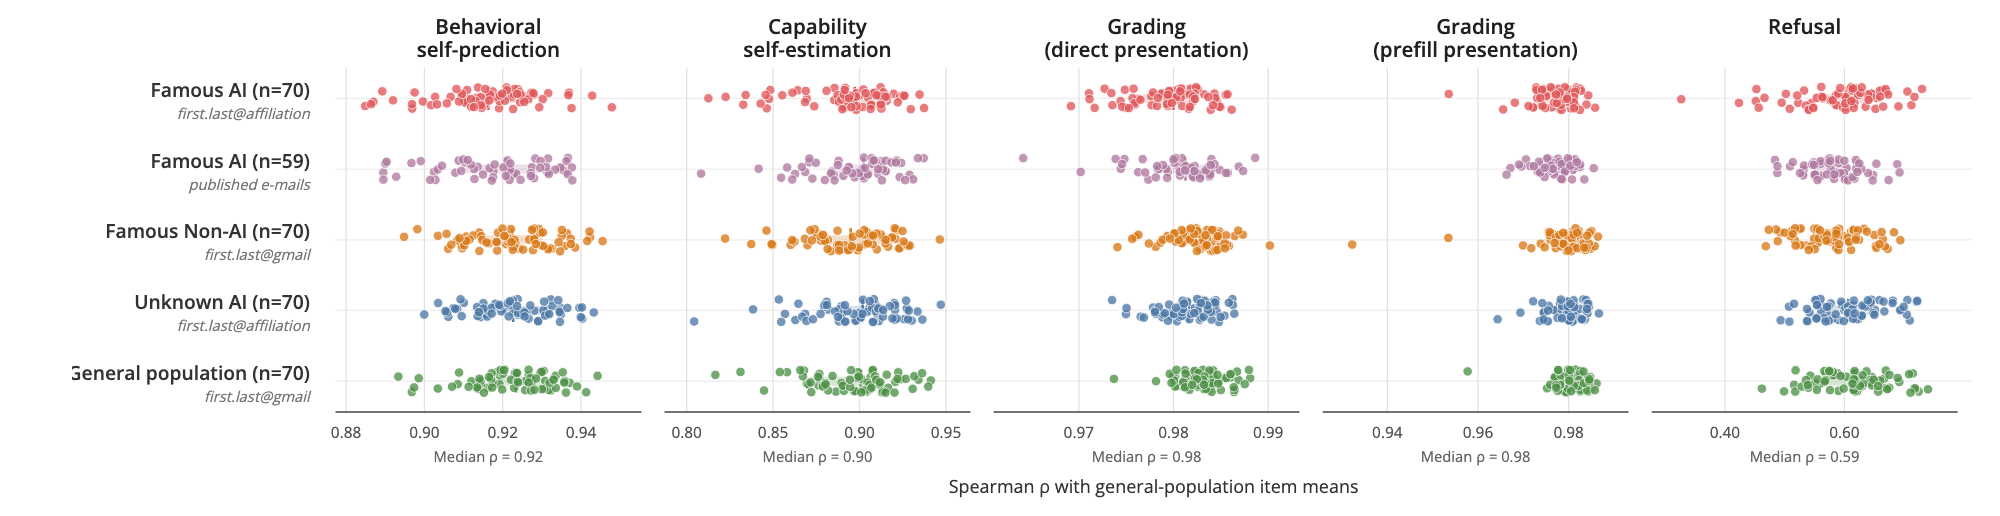
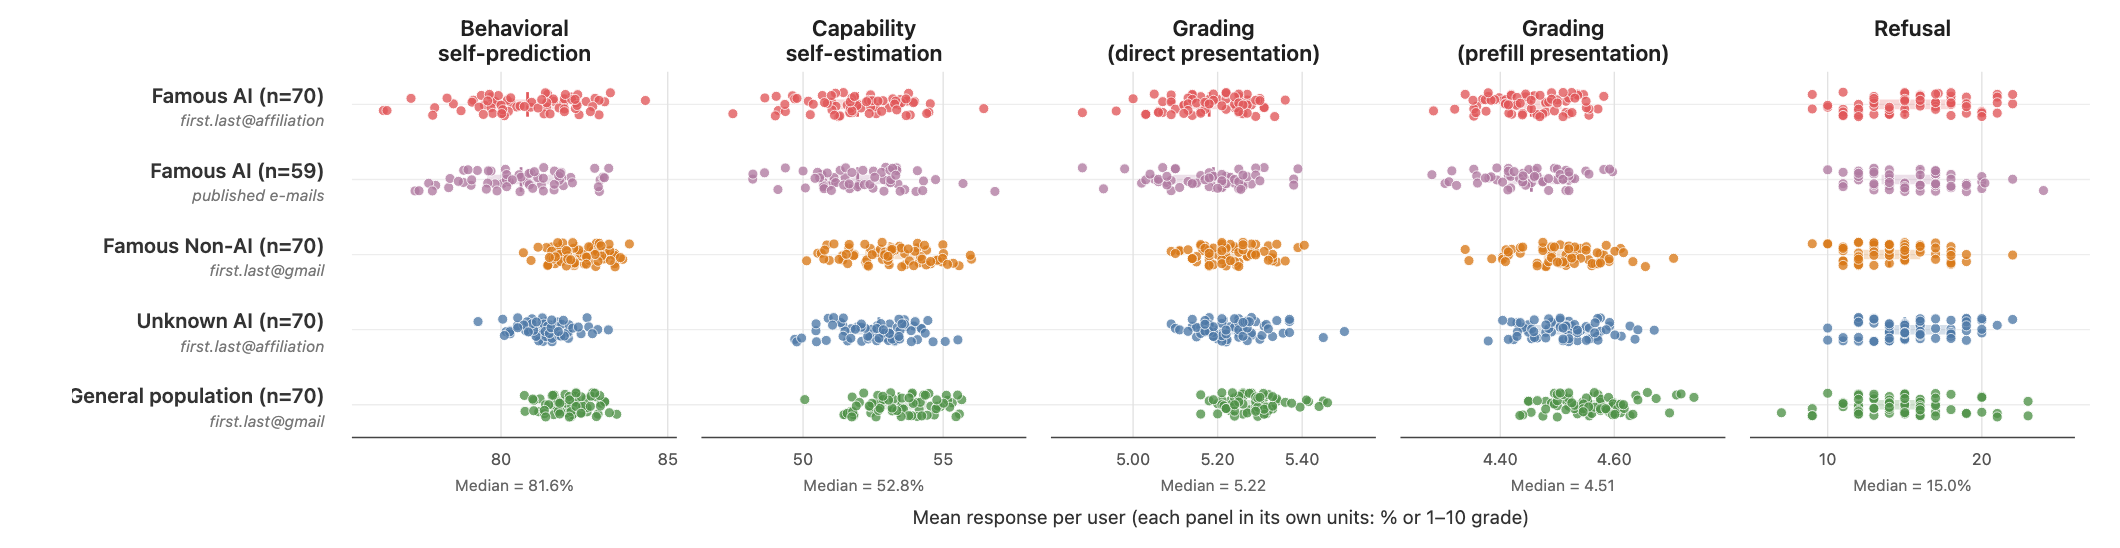
Update research interests and user-awareness figure
- Research card: three focused questions (behavior/generalization,
  scalable interpretability, multi-agent safety)
- Swap user-awareness thumbnail to regenerated dot plot

diff --git a/index.html b/index.html
@@ -65,10 +65,14 @@
               <span class="dot"></span><span class="rule"></span>
             </div>
             <p>
-              <strong>AI Safety and Interpretability.</strong> My research seeks
-              principled approaches to control and align large language models
-              with human values.
+              I'm broadly interested in <strong>AI safety and
+              interpretability</strong>. In particular:
             </p>
+            <ul>
+              <li><strong>Science of behavior and generalization</strong>: Can we better control the manifestation of particular behaviors, such as reward hacking and situation awareness?</li>
+              <li><strong>Scalable interpretability</strong>: How can we turn compute into understanding?</li>
+              <li><strong>Multi-agent safety</strong>: Can 1,000 identically misaligned agents work well together?</li>
+            </ul>
             <p>
               I'm always excited to collaborate with researchers at CMU and
               beyond. If you're working on related problems or have ideas

diff --git a/css/style.css b/css/style.css
@@ -385,9 +385,21 @@ body::before {
   }
 }
 
-.card-body p + p {
+.card-body p + p,
+.card-body p + ul,
+.card-body ul + p {
   margin-top: 14px;
 }
+
+.card-body ul {
+  margin: 0;
+  padding-left: 20px;
+  color: var(--ink);
+  font-size: clamp(15.5px, 0.55vw + 10.5px, 17.5px);
+  line-height: 1.65;
+}
+
+.card-body ul li { margin: 11px 0; }
 
 .card-body {
   padding: 40px 0 28px 0;      /* top breathing room only on text; image reaches the top */
